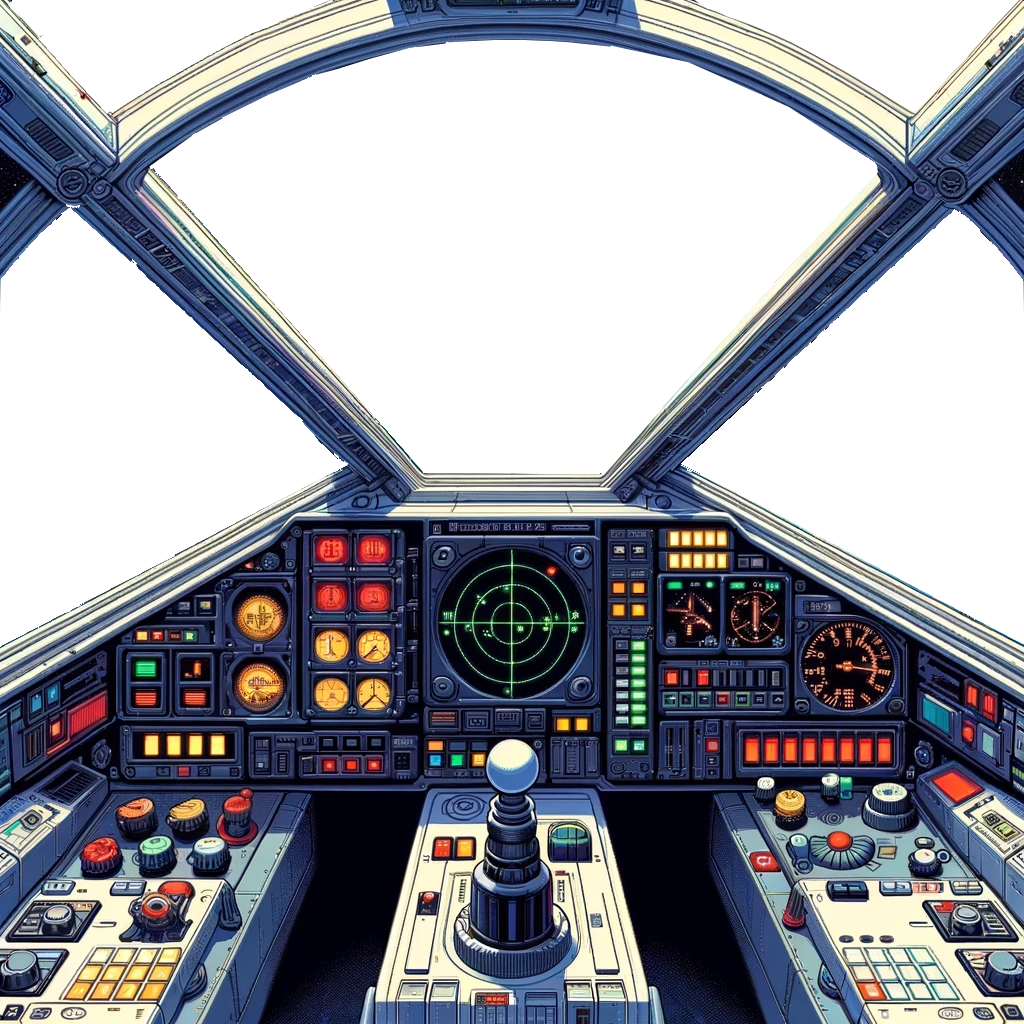
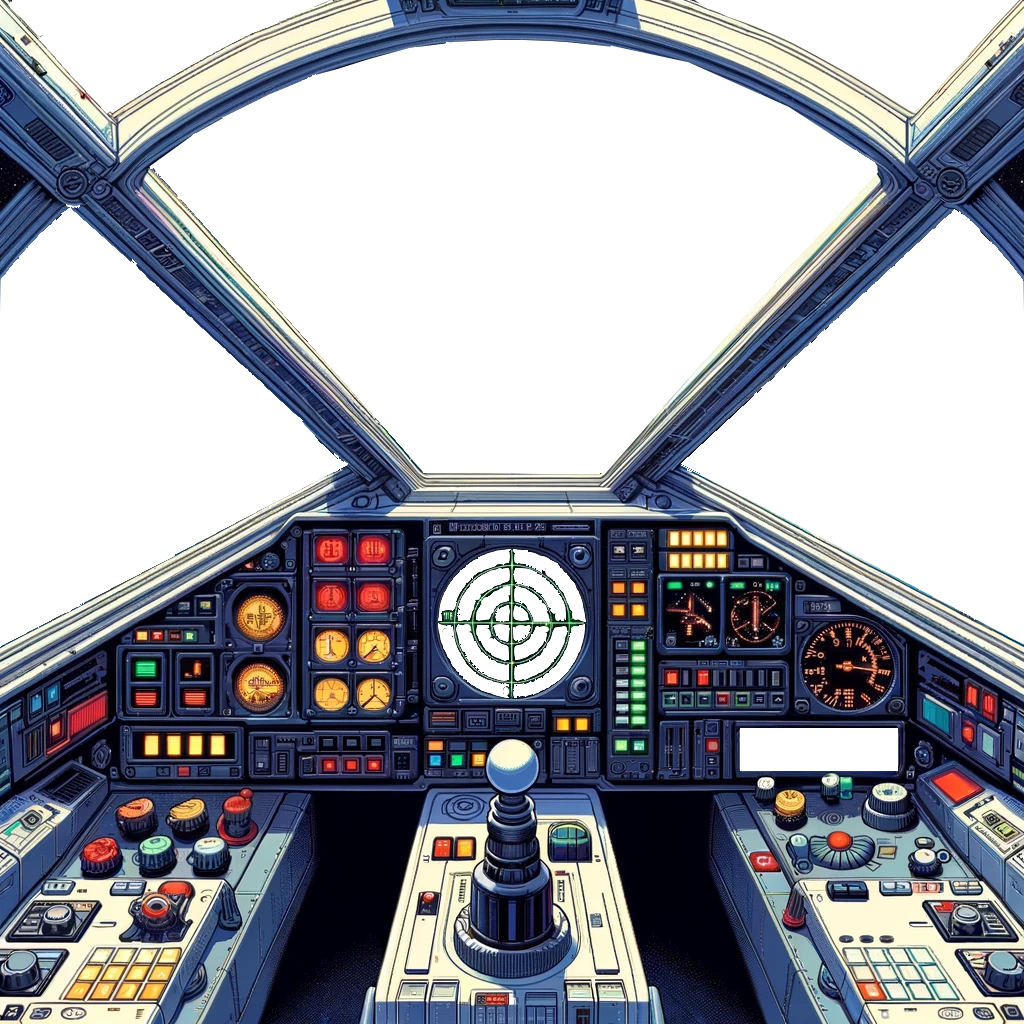
primitive radar and speedometer

Changed region(s): [[0.4062, 0.5312, 0.5938, 0.6875], [0.7188, 0.6875, 0.875, 0.75]]

diff --git a/test.py b/test.py
@@ -1,94 +1,53 @@
-
-
 import pygame
+import sys
 
+# Initialize Pygame
 pygame.init()
 
-# Screen setup
-screen_width, screen_height = 800, 600
+# Screen settings
+screen_width = 2560
+screen_height = 1440
 screen = pygame.display.set_mode((screen_width, screen_height))
-clock = pygame.time.Clock()
+pygame.display.set_caption("Font Examples")
 
-# Object setup
-object_color = (255, 0, 0)
-object_size = 20
-object_x = screen_width // 2
-object_y = screen_height // 2
-object_behind_player = False  # To track if the object is "behind" the player
+# Define fonts to display (For demonstration, this will get all available fonts)
+fonts_to_display = pygame.font.get_fonts()
 
+# Colors
+bg_color = (30, 30, 30)
+text_color = (255, 255, 255)
 
-def update_object_surface(opaque=True):
-    """Updates the object's surface based on its visibility state."""
-    global object_surface
-    alpha = 255 if opaque else 128  # Full opacity or semi-transparent
-    object_surface = pygame.Surface((2 * object_size, 2 * object_size), pygame.SRCALPHA)
-    temp_color = object_color + (alpha,)  # Add alpha to the object's color
-    pygame.draw.circle(object_surface, temp_color, (object_size, object_size), object_size)
+# Font settings
+font_size = 18  # Adjust based on your preference and screen size
+max_fonts_per_col = screen_height // (font_size + 10)  # Calculate how many fonts fit per column
 
+def draw_fonts(screen, fonts):
+    screen.fill(bg_color)
+    column_width = screen_width // (len(fonts) // max_fonts_per_col + 1)  # Calculate column width
+    x, y = 10, 10  # Starting position
 
-update_object_surface()  # Initialize the surface with the object being opaque
+    for font_name in fonts:
+        try:
+            font = pygame.font.SysFont(font_name, font_size)
+            text_surface = font.render(f"{font_name}", True, text_color)
+            screen.blit(text_surface, (x, y))
+            y += font_size + 10  # Move down to the next line
+            if y + font_size > screen_height:  # Check if we've reached the bottom of the screen
+                y = 10  # Reset Y
+                x += column_width  # Move to the next column
+        except Exception as e:
+            print(f"Error displaying font '{font_name}': {e}")
 
-# Main game loop
+    pygame.display.flip()
+
+# Main loop
 running = True
 while running:
     for event in pygame.event.get():
         if event.type == pygame.QUIT:
             running = False
-        elif event.type == pygame.KEYDOWN:
-            if event.key == pygame.K_RIGHT:
-                if not object_behind_player:
-                    object_x -= 50  # Move left
-                    if object_x <= 0:
-                        object_behind_player = True  # Indicate that the object is now "behind" the player
-                        update_object_surface(opaque=False)  # Make the object semi-transparent
-                        object_x = 0
-                else:
-                    object_x += 50
-                    if object_x >= screen_width:
-                        object_behind_player = False  # Object is no longer "behind" the player
-                        update_object_surface(opaque=True)  # Make the object opaque again
-            elif event.key == pygame.K_LEFT:
-                if not object_behind_player:
-                    object_x += 50  # Move left
-                    if object_x >= screen_width:
-                        object_behind_player = True  # Indicate that the object is now "behind" the player
-                        update_object_surface(opaque=False)  # Make the object semi-transparent
-                else:
-                    object_x -= 50
-                    if object_x <= 0:
-                        object_behind_player = False  # Object is no longer "behind" the player
-                        update_object_surface(opaque=True)  # Make the object opaque again
-            elif event.key == pygame.K_UP:
-                if not object_behind_player:
-                    object_y += 50  # Move down
-                    if object_y >= screen_height:
-                        object_behind_player = True  # Indicate that the object is now "behind" the player
-                        update_object_surface(opaque=False)  # Make the object semi-transparent
-                else:
-                    object_y -= 50
-                    if object_y <= 0:
-                        object_behind_player = False  # Object is no longer "behind" the player
-                        update_object_surface(opaque=True)  # Make the object opaque again
-            elif event.key == pygame.K_DOWN:
-                if not object_behind_player:
-                    object_y -= 50  # Move down
-                    if object_y <= 0:
-                        object_behind_player = True  # Indicate that the object is now "behind" the player
-                        update_object_surface(opaque=False)  # Make the object semi-transparent
-                else:
-                    object_y += 50
-                    if object_y >= screen_height:
-                        object_behind_player = False  # Object is no longer "behind" the player
-                        update_object_surface(opaque=True)  # Make the object opaque again
 
-
-
-    screen.fill((0, 0, 0))
-    screen.blit(object_surface, (object_x - object_size, object_y - object_size))
-
-    pygame.display.flip()
-    clock.tick(60)
+    draw_fonts(screen, fonts_to_display)
 
 pygame.quit()
-
-#TODO add logic for an invisible planet offsides to be able to turn visible when back within FOV
+sys.exit()

diff --git a/cockpit.py b/cockpit.py
@@ -151,3 +151,85 @@ class Comms:
     def is_fully_visible(self, portrait_id):
         for portrait in self.portraits:
             return all(portrait['current_alpha'] == 85 for portrait in self.portraits)
+
+class Speedometer:
+    def __init__(self, position, font_size=18, font_color=(255, 255, 255), box_color=(0, 0, 0), box_padding=10,
+                 threshold=0.01, border_radius=10):
+        pygame.font.init()
+        self.font = pygame.font.SysFont('lucidasanstypewriter', font_size)
+        self.font_color = font_color
+        self.box_color = box_color
+        self.position = position  # This position now represents the top-left corner of the black box
+        self.box_padding = box_padding
+        self.threshold = threshold
+        self.border_radius = border_radius  # New attribute for rounded corners
+        self.last_speed = None
+        self.current_speed_surface = None
+        # Initially, we don't know the size of the box, so set it to 0
+        self.box_width = 0
+        self.box_height = 0
+
+    def update(self, speed):
+        if self.last_speed is None or abs(speed - self.last_speed) > self.threshold:
+            speed_text = f"VELOCITY: {speed:.2f}"
+            self.current_speed_surface = self.font.render(speed_text, True, self.font_color)
+            self.last_speed = speed
+            # Update the box size based on the new text dimensions plus padding
+            self.box_width = 160
+            self.box_height = 50
+
+    def draw(self, surface):
+        if self.current_speed_surface:
+            # Calculate the center position for the text within the box
+            text_x = self.position[0] + (self.box_width - self.current_speed_surface.get_width()) // 2
+            text_y = self.position[1] + (self.box_height - self.current_speed_surface.get_height()) // 2
+
+            # Draw the black box with rounded corners
+            box_rect = pygame.Rect(self.position[0], self.position[1], self.box_width, self.box_height)
+            pygame.draw.rect(surface, self.box_color, box_rect, border_radius=self.border_radius)
+
+            # Then draw the speed text over it
+            surface.blit(self.current_speed_surface, (text_x, text_y))
+
+class Radar:
+    def __init__(self, center_position, radius, radar_color=(0, 255, 0), background_color=(20, 20, 20), border_color=(255, 255, 255), border_thickness=2, blink_duration=0.5):
+        pygame.font.init()
+        self.center_position = center_position
+        self.radius = radius
+        self.radar_color = radar_color
+        self.background_color = background_color
+        self.border_color = border_color
+        self.border_thickness = border_thickness
+        self.blink_duration = blink_duration
+        self.last_blink_time = time.time()
+        self.blink_state = True
+
+    def draw(self, surface, planetoids, ship_position):
+        current_time = time.time()
+        if current_time - self.last_blink_time > self.blink_duration:
+            self.blink_state = not self.blink_state
+            self.last_blink_time = current_time
+
+        pygame.draw.circle(surface, self.background_color, self.center_position, self.radius)
+        pygame.draw.circle(surface, self.border_color, self.center_position, self.radius, self.border_thickness)
+
+        for planetoid in planetoids:
+            self._draw_planetoid_on_radar(surface, planetoid, ship_position)
+
+    def _draw_planetoid_on_radar(self, surface, planetoid, ship_position):
+        # Calculate the relative position of the planetoid to the ship
+        rel_x = planetoid.position.x - ship_position.x
+        rel_y = planetoid.position.y - ship_position.y
+
+        # Scale these positions to fit on the radar
+        scale_factor = self.radius / (pygame.display.get_surface().get_width() / 2)
+        radar_x = int(self.center_position[0] + rel_x * scale_factor)
+        radar_y = int(self.center_position[1] + rel_y * scale_factor)
+
+        # Draw the planetoid on the radar
+        if abs(rel_x) <= self.radius / scale_factor and abs(rel_y) <= self.radius / scale_factor:
+            if planetoid.behind_player:
+                if self.blink_state:
+                    pygame.draw.circle(surface, self.radar_color, (radar_x, radar_y), 2)
+            else:
+                pygame.draw.circle(surface, self.radar_color, (radar_x, radar_y), 2)

diff --git a/main.py b/main.py
@@ -4,7 +4,7 @@ import pygame.sprite
 import random
 
 from button import Button, TransparentButton
-from cockpit import Cockpit, Comms
+from cockpit import Cockpit, Comms, Speedometer, Radar
 from game_objects import SpaceWoman01
 from game_state_manager import GameStateManager
 from mouse_event import MouseEventHandler
@@ -36,6 +36,10 @@ async def main():
 
     ship = Ship(position=(SCREEN_WIDTH // 2, SCREEN_HEIGHT // 2), speed=.5, turn_speed=800)
     cockpit = Cockpit('images/starfighter01.png', screen)
+    speedometer = Speedometer((738, 724))
+    radar_position = (513, 622)
+    radar = Radar(radar_position, 80)
+
     NUM_STARS = 300
     stars = [Star(SCREEN_WIDTH, SCREEN_HEIGHT) for _ in range(NUM_STARS)]
     comets = []
@@ -54,7 +58,7 @@ async def main():
     star_01 = Planetoid('images/star01.png', (400,400),
                         # ((SCREEN_WIDTH // 2), (SCREEN_HEIGHT // 2)),
                         initial_scale=.2,
-                        scaling_rate=0)
+                        scaling_rate=0) # static background
     planetoids.add(planetoid_01, space_station_01, star_01)
 
 
@@ -103,7 +107,6 @@ async def main():
     planetoid_orbit_speed = 1
     # avoid fat planets disappearing before fully off-screen
     planetoid_padding = 30
-
     run = True
     while run:
         # Movement
@@ -210,22 +213,27 @@ async def main():
                 screen.blit(planetoid.image, planetoid.rect)
 
         # Overlay the cockpit image after drawing the stars
+        speedometer.update(ship.speed)
+        speedometer.draw(screen)
+        radar.draw(screen, planetoids, ship.position)
         cockpit.draw()
         comms_button.draw(screen)
         comms.update_portraits()  # updates fade effect
         comms.draw()
 
+
         # Comms dialogue draw
         if comms.is_fully_visible('spacewoman01'):
             spacewoman01.show_current_dialogue(screen, comms)
 
+
         # Debug
-        velocity_text = f"Velocity: {ship.speed:.2f}"
-        velocity_surface = font.render(velocity_text, True, pygame.Color('white'))
-        screen.blit(velocity_surface, (20, 20))  # Position the text on the top-left corner
-        angle_text = f"Angle: {ship.angle}"
-        angle_surface = font.render(angle_text, True, pygame.Color('white'))
-        screen.blit(angle_surface, (20, 40))  # Position the text on the top-left corner
+        # velocity_text = f"Velocity: {ship.speed:.2f}"
+        # velocity_surface = font.render(velocity_text, True, pygame.Color('white'))
+        # screen.blit(velocity_surface, (20, 20))  # Position the text on the top-left corner
+        # angle_text = f"Angle: {ship.angle}"
+        # angle_surface = font.render(angle_text, True, pygame.Color('white'))
+        # screen.blit(angle_surface, (20, 40))  # Position the text on the top-left corner
 
         pygame.display.flip()
 
